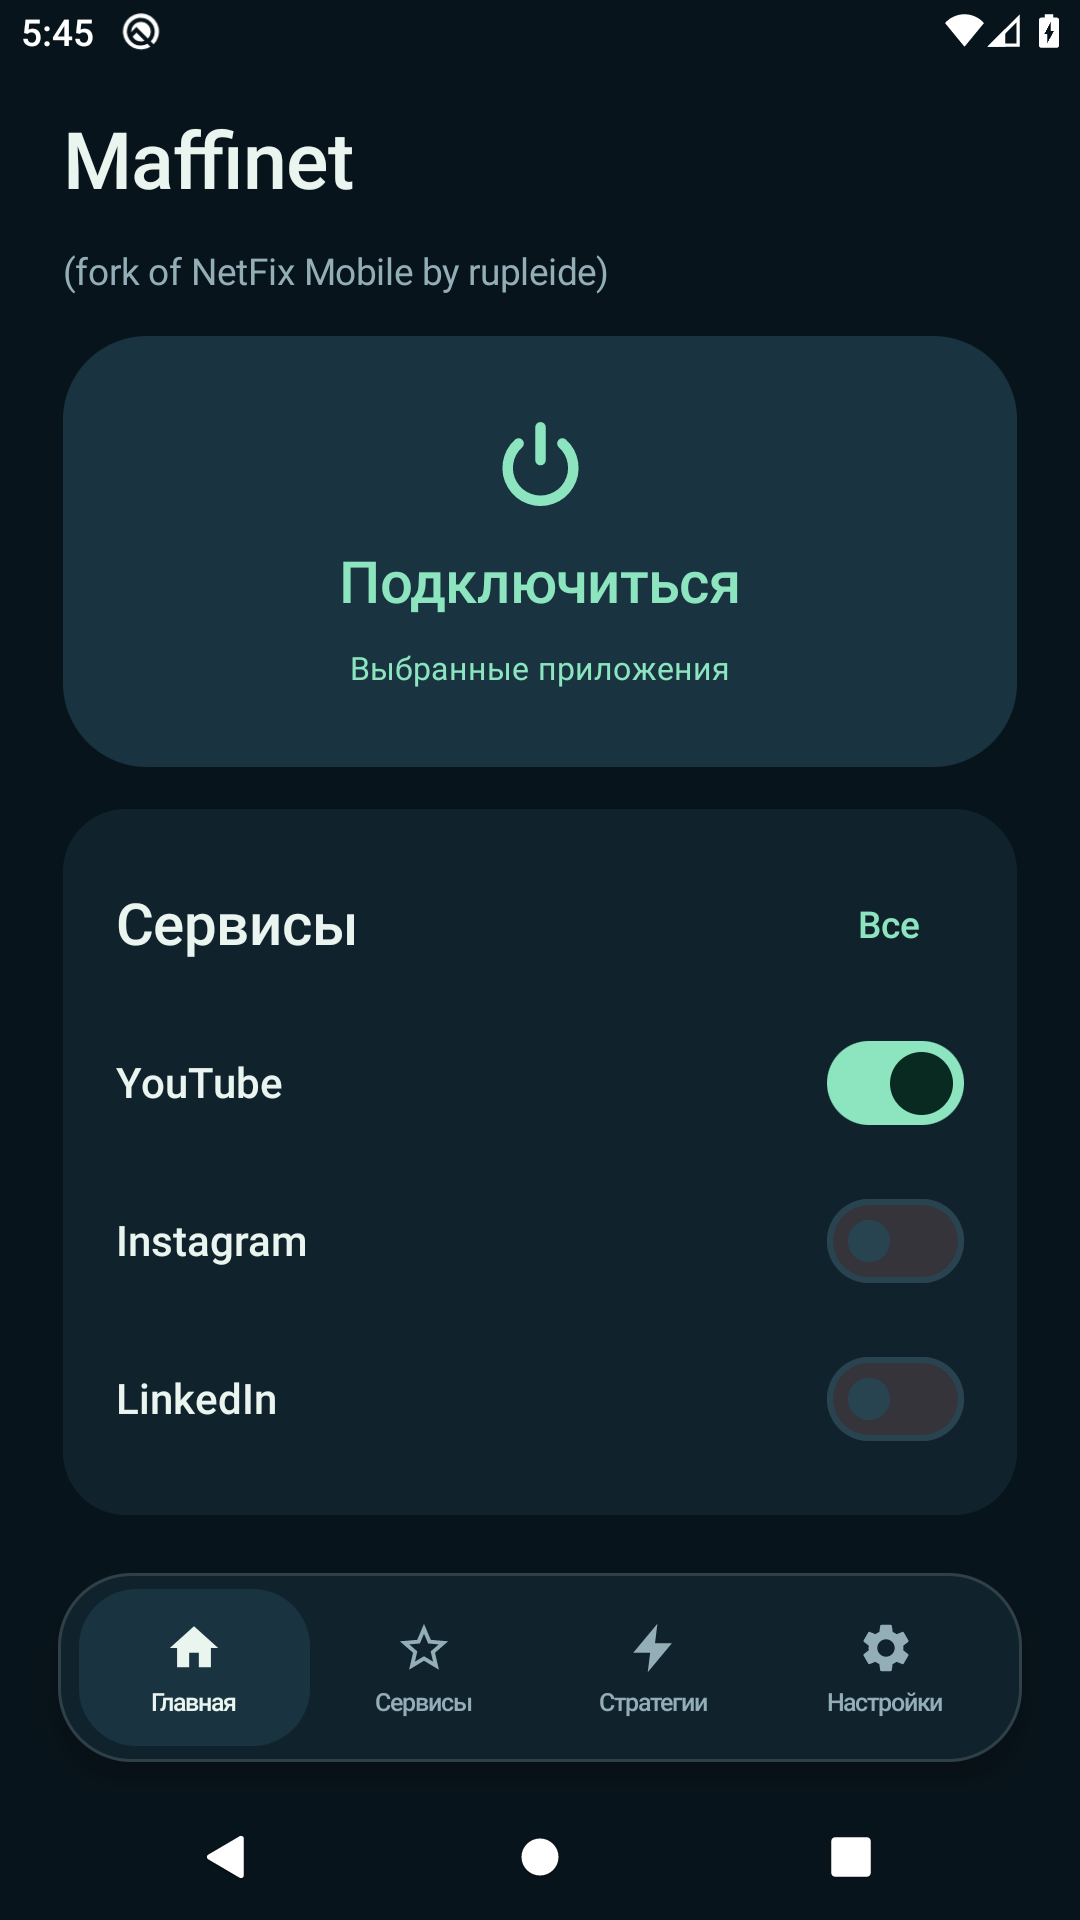
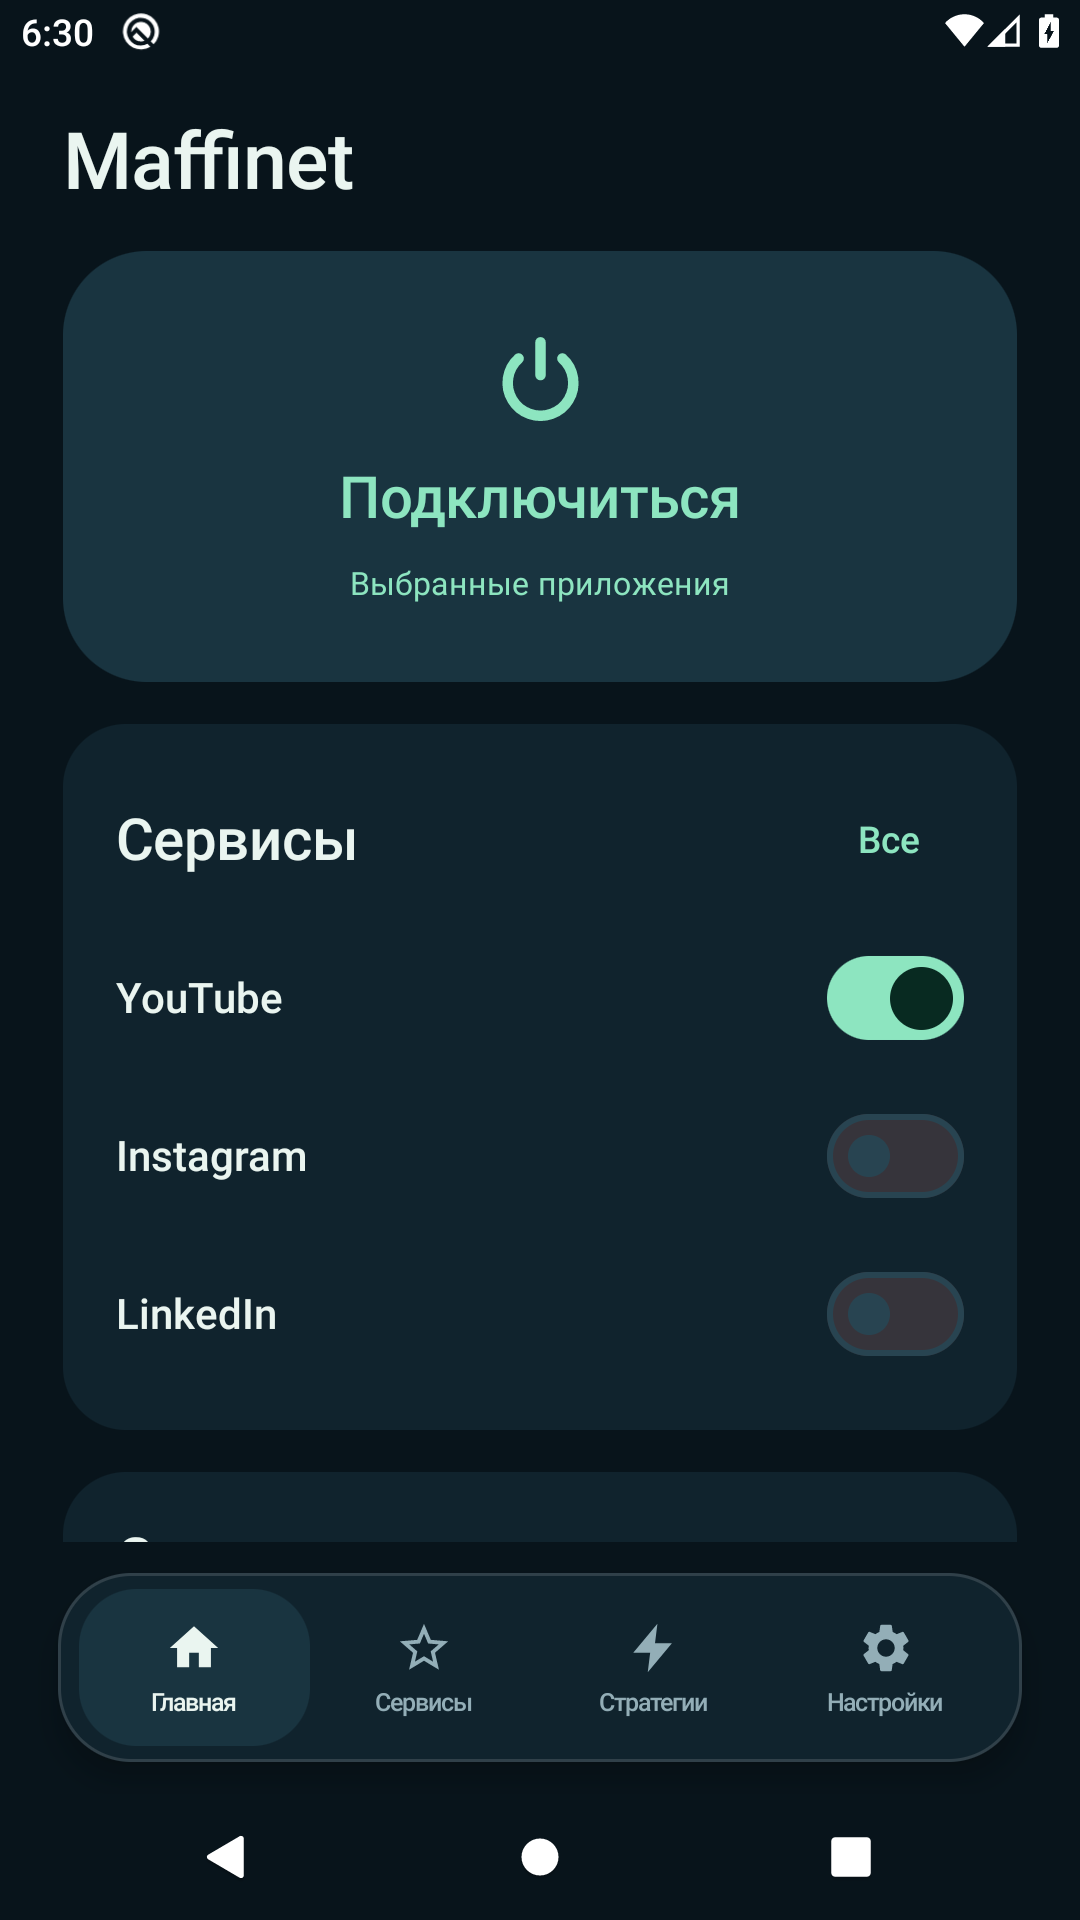
docs: record Maffinet JNI and clean development UI validation [skip ci]

diff --git a/PLAN.md b/PLAN.md
@@ -79,14 +79,14 @@ At each phase run `:app:assembleDebug :app:testDebugUnitTest`; record environmen
 - Phase 3: complete. Centralized YouTube/Instagram/LinkedIn profiles, generic domain selection, enabled-profile plus manual application routing, own-package exclusion and empty-installed-allowlist rejection implemented. Six focused catalog/routing tests pass (26 production-source JVM tests total). The integrated Android build passed in CI; physical-device connectivity remains pending.
 - Phase 4: complete in source. Four primary destinations, clean Home, generic service controls/details, validated local domain editor with SAF import/export, Advanced controls and retained legacy Telegram/TV/strategy management routes. Android compilation and AOSP API 29 portrait UI checks passed in CI. Real screenshots cover onboarding, the four destinations, About, persisted service choices and domain validation. The scroll viewport and dark system navigation keep product controls clear of the bottom bar. Physical phone/TV visual acceptance remains pending. Matrix presentation is completed alongside Phase 5.
 - Phase 5: complete in source. HTTP/TLS probes cover every selected profile target through each production-filtered ByeDPI candidate, with a fixed per-run snapshot, persistent per-service matrix and deterministic coverage/latency/preset-order scoring. Five focused scorer tests pass. Best command is saved before VPN restoration; user STOP/PAUSE, cancellation, deferred starts and stuck native workers are coordinated explicitly. VPN JNI is hosted on a tracked thread with listener readiness and bounded cleanup; transport/native engines are preserved. Full integrated Android compilation passed in CI.
-- Phase 6: code stabilization and runtime smoke checks implemented; physical device acceptance remains open. Startup waits for the SOCKS listener; failures/destruction close TUN/config/native resources; DNS presets reach the VPN builder; physical-network recovery retains lost-network state; scan/reconnect/start/stop operations share gates and generation tokens. Watchdog permissions/component and VPN-specific state are fixed without replacing transport engines. [CI run 37141382387](https://github.com/DrDeiss/Maffinet/actions/runs/37141382387) passed for source `256dfaee5559eaf827e3228805d57653257bc56e`: 32 standalone JVM tests, 31 Android JVM tests, nine Android instrumentation tests, debug APK assembly and Lint with zero errors. Every suite completed without failures or skips. Real phone/TV acceptance checks remain pending in docs/DEVICE_VALIDATION.md.
+- Phase 6: code stabilization and runtime smoke checks implemented; physical device acceptance remains open. Startup waits for the SOCKS listener; failures/destruction close TUN/config/native resources; DNS presets reach the VPN builder; physical-network recovery retains lost-network state; scan/reconnect/start/stop operations share gates and generation tokens. Watchdog permissions/component and VPN-specific state are fixed without replacing transport engines. [CI run 37144128664](https://github.com/DrDeiss/Maffinet/actions/runs/37144128664) passed for source `30ee86a15a6ed889f719a24b10a2577bcb5d6e6b`: 32 standalone JVM tests, 31 Android JVM tests, nine Android instrumentation tests, debug/unsigned release APK assembly and Lint with zero errors. Every suite completed without failures or skips. Real phone/TV acceptance checks remain pending in docs/DEVICE_VALIDATION.md.
 
 ### Verification scope
 
-- Continued Phase 6: AOSP API 29 instrumentation passed for the four UI destinations, required attribution, persisted service/domain edits, real JNI SOCKS/TUN start/stop/retry, startup cancellation and universal-test VPN restoration. Nine tests ran with zero failures/errors/skips, including eight custom smoke checks and the inherited application-ID check. Android Lint is an error gate. Six executed production-native fixture tests cover filtering and parse all 73 unchanged inherited presets after the actual selective argument compiler. All 12 collected UI PNGs were inspected, including the final About viewport and truthful unchecked-update status. Selected original captures are retained in docs/screenshots; complete reports/logs/PNG evidence are in the CI artifact.
+- Continued Phase 6: AOSP API 29 debug instrumentation passed for the four UI destinations, deferred upstream reminders, persisted service/domain edits, real Maffinet JNI SOCKS/TUN start/stop/retry, startup cancellation and universal-test VPN restoration. Nine tests ran with zero failures/errors/skips, including eight custom smoke checks and the inherited application-ID check. Android Lint is an error gate. Six executed production-native fixture tests cover filtering and parse all 73 unchanged inherited presets after the actual selective argument compiler. All 12 collected UI PNGs were inspected, including the clean development About viewport and truthful unchecked-update status. Selected original captures are retained in docs/screenshots; complete reports/logs/PNG evidence are in the CI artifact. Release attribution was compiled, not runtime-tested in this run.
 
 - Local Windows: 26 JVM model tests passed; six Linux native fixture tests explicitly skipped. Syntax inspection passed for 82 Kotlin application/unit/instrumentation files. Android SDK agreement acceptance remains pending locally; no agreement was accepted by project automation.
-- GitHub CI: stable NDK r29 compiler override; all four native ABIs packaged in the debug build. Production native HTTP/TLS host selection, retry groups, TCP/IPv4 constraints and unchanged UDP forwarding were exercised successfully. Eight inherited binary hashes and four HEV JNI contracts remain verified. Lint reports zero errors, 157 warnings and nine hints; inherited target SDK and JNA page alignment remain documented limitations. Test reports/logs/PNG evidence are uploaded, with no public APK release.
+- GitHub CI: stable NDK r29 compiler override; all four native ABIs packaged in debug and unsigned release builds. Production native HTTP/TLS host selection, retry groups, TCP/IPv4 constraints and unchanged UDP forwarding were exercised successfully. Eight shipped binary hashes, four Maffinet HEV JNI contracts and inverse original hashes are verified. Lint reports zero errors, 157 warnings and nine hints; inherited target SDK and JNA page alignment remain documented limitations. Test reports/logs/PNG evidence are uploaded, with no public APK release.
 - Final localized fixes: the update-install receiver is private; About uses the same reserved scroll viewport as product screens. Update checks distinguish available/up-to-date/no-release/no-APK/failure states, respect disabled automatic checks, close HTTP resources and propagate cancellation. Four new Android JVM tests covering alpha/stable, numeric ordering and malformed tags passed in the final CI. The Activity smoke test confirms disabled automatic checks leave About explicitly unchecked.
 - Release limitations: physical-device VPN/bypass/media/background/TV behavior and traffic generated by a separately routed helper app remain unverified. Exact customized HEV source was not found in checked public provenance; retained binaries and JNI compatibility are documented. Source/provenance and physical-device gates prevent claiming a verified alpha release.
 
@@ -94,4 +94,5 @@ At each phase run `:app:assembleDebug :app:testDebugUnitTest`; record environmen
 
 - Removed the last original Kotlin namespace: HEV now registers `io.maffinet.android.core.dpibypass.TProxyService` on all four ABIs. A deterministic 48-byte class-literal adaptation preserves every other native byte, proven by inverse original hashes; original/target records are in docs/native-jni-rebind.json. The bridge, NDK package macro and keep rule use Maffinet. Exact customized sources remain a separate release gate.
 - Per the user's instruction, debug UI defers upstream reminders with `SHOW_UPSTREAM_ATTRIBUTION=false`. Release sets the flag true, preserving first-launch notice, Home/About marking and author cards for the final UI. LICENSE/NOTICE/provenance remain intact.
-- CI now assembles debug and unsigned release variants. Updated UI smoke assertions check clean development Home/About/onboarding and preserve release-branch checks. Native inverse/hash checks passed locally; new Android runtime validation is pending.
+- Renamed 13 inherited component/service Kotlin filenames to Maffinet, removing old generated file-facade names. The source tree has no original application package or original product filenames.
+- CI now assembles debug and unsigned release variants. Updated UI smoke assertions check clean development Home/About/onboarding and preserve release-branch checks. Run 37144128664 passed all 32/31/9 tests without skips, with no JNI linkage errors in logcat; the new class ran on x86_64. Twelve fresh captures document the development UI. The release gate was compiled but not runtime-tested; other ABI/device checks remain pending.

diff --git a/docs/DEVICE_VALIDATION.md b/docs/DEVICE_VALIDATION.md
@@ -2,8 +2,8 @@
 
 ## Completed emulator validation
 
-Source: `256dfaee5559eaf827e3228805d57653257bc56e`.
-[CI run 37141382387](https://github.com/DrDeiss/Maffinet/actions/runs/37141382387),
+Source: `30ee86a15a6ed889f719a24b10a2577bcb5d6e6b`.
+[CI run 37144128664](https://github.com/DrDeiss/Maffinet/actions/runs/37144128664),
 2026-10-03, GitHub Linux runner, stable NDK r29, AOSP API 29 `default;x86_64`
 Pixel emulator, portrait 1080×1920, Android three-button navigation.
 The test's simulated VPN consent is explicitly restricted to qemu; no physical
@@ -11,17 +11,18 @@ device permission flow is inferred from it.
 
 | Check | Recorded result |
 | --- | --- |
-| Debug APK and test APK | Both assembled; four native ABIs packaged |
+| Debug, unsigned release and test APKs | All assembled; four native ABIs packaged |
 | Standalone JVM/native contracts | 32 passed, zero failures/skips; six actual pinned-C tests, including all 73 preset arguments |
 | Android JVM tests | 31 passed, zero failures/skips; includes four alpha/stable/version-tag cases |
 | Android instrumentation | Nine passed, zero failures/errors/skips; eight custom checks plus inherited application-ID check |
 | Android Lint | Zero errors, 157 warnings, nine hints |
-| First launch | Required author notice appears; acknowledgement survives Activity relaunch |
-| Product navigation/attribution | Four destinations open; Home and About contain the required fork marking |
+| First launch | Development build opens Maffinet welcome without an upstream notice; welcome survives Activity relaunch and the deferred notice is not marked seen |
+| Product navigation/attribution | Four destinations open; debug Home/About/onboarding contain no NetFix/rupleide reminders; release attribution gate compiles enabled |
 | Update state | Disabled automatic checks leave About explicitly unchecked; network/no-release/no-APK outcomes remain distinct in source |
 | Saved services | YouTube/Instagram choices survive closing and opening a new Activity |
 | Saved User domains | Normalization/save/disable survive relaunch; an invalid URL cannot overwrite the saved list |
-| Native start/stop/retry | Actual JNI SOCKS negotiation and Android TUN establish twice; temporary config, socket and TUN descriptors clean up |
+| Native namespace | Eight shipped binary hashes and four inverse HEV provenance checks pass; x86_64 runtime resolves the new Maffinet JNI class without link/registration errors |
+| Native start/stop/retry | Actual Maffinet JNI SOCKS negotiation and Android TUN establish twice; temporary config, socket and TUN descriptors clean up |
 | Failed routing/start cancellation | Empty installed routing cleans up native resources and permits retry; immediate STOP invalidates queued startup |
 | Universal candidate/restoration | One real native candidate probes every selected profile; candidate resources stop before original VPN restoration |
 | Visual evidence | 12 UI PNGs collected and inspected; product and About scroll content stay clear of floating/system navigation |
@@ -29,10 +30,16 @@ device permission flow is inferred from it.
 Original captures of Home, Services, Strategies, About and the domain validation
 error are retained in [screenshots](screenshots/README.md). The full 12-image set,
 JUnit/Lint reports and emulator/logcat output are in CI artifact
-`android-validation` (ID `11280812005`, SHA-256
[1 lines of base64/hex data omitted]
-The standalone suite report is artifact `jvm-validation` (ID `11280716703`).
+`android-validation` (ID `11280884164`, SHA-256
[1 lines of base64/hex data omitted]
+The standalone suite report is artifact `jvm-validation` (ID `11281368133`).
 Documentation-only commits after the tested source do not change application code.
+Instrumentation ran against debug; release was assembled but its attribution UI
+was not executed on the emulator. ARM and x86 binaries pass structural/hash
+checks; their device runtime remains unverified.
+Visual QA also retains one earlier layout issue: with the keyboard open in the
+restored domain editor, its header can scroll under the status bar; the editable
+domain field stays readable. This is separate from the attribution change.
 
 Instrumented probes run from the application's excluded UID. The TUN is configured
 with a distinct installed test APK UID, but these tests do not generate traffic
@@ -48,7 +55,7 @@ Phone and Android TV checks are distinct. All physical-device rows remain unveri
 | Check | Expected result | Result |
 | --- | --- | --- |
 | Installation | Maffinet and NetFix packages/data remain separate | Pending |
-| First launch | Maffinet branding and fork notice appear | Pending |
+| First launch | Maffinet branding; notice deferred in debug and shown in release | Pending |
 | VPN permission/start/stop | Consent, foreground notice, complete cleanup | Pending |
 | YouTube regression | Known working strategy reaches web/media | Pending |
 | Service routing | Installed enabled packages enter allowed routing | Pending |

diff --git a/README.md b/README.md
@@ -1,11 +1,7 @@
 # Maffinet
 
-Maffinet is an independent project inspired by NetFix Mobile and uses parts of
-its open-source codebase. Upstream: [rupleide/NetFixMobile](https://github.com/rupleide/NetFixMobile).
-Maffinet is an independent development with its own identity, interface and
-selective DPI bypass architecture. It is not an official NetFix product.
-
-Attribution: **(fork of NetFix Mobile by rupleide)**.
+Maffinet is an Android application for local, selective DPI bypass with service
+profiles, editable domain lists and automatic strategy testing.
 
 During UI development, debug builds defer the upstream notice and attribution
 using `BuildConfig.SHOW_UPSTREAM_ATTRIBUTION=false`. Release builds set it to
@@ -23,7 +19,8 @@ installation alongside NetFix Mobile.
 ## Interface
 
 Original captures from the passing AOSP API29 emulator run, source
-`256dfaee5559eaf827e3228805d57653257bc56e`:
+`30ee86a15a6ed889f719a24b10a2577bcb5d6e6b`. Development UI defers upstream
+reminders:
 
 <img src="docs/screenshots/home-api29.png" width="270" alt="Maffinet Home with connection and service controls"> <img src="docs/screenshots/services-api29.png" width="270" alt="Maffinet service profiles">
 
@@ -114,8 +111,9 @@ control. Unit tests cover parsing/merging, profiles, arguments, scoring and
 persistence. `./gradlew -p verification test` runs pure production-source JVM tests
 without Android SDK. Linux CI also compiles unchanged pinned ByeDPI for actual
 host/protocol/retry/UDP contract checks; see [verification](verification/README.md).
-CI also assembles instrumentation tests, runs Android Lint with errors fatal and
-executes UI/native VPN smoke tests on an AOSP API29 x86_64 emulator. It collects
+CI assembles debug, unsigned release and instrumentation APKs, runs Android Lint
+with errors fatal and executes UI/native VPN smoke tests on an AOSP API29 x86_64
+emulator. It collects
 reports and screen captures. A licensed Linux SDK host can run the same checks
 with `bash tools/run-emulator-smoke.sh`; the script requires a provisioned AOSP
 API29 image, emulator, platform tools and KVM. Its simulated VPN consent is
@@ -126,6 +124,11 @@ Use [device validation](docs/DEVICE_VALIDATION.md)
 for VPN lifecycle, background, network switching and Android TV checks.
 
 ## License and attribution
+
+Maffinet uses parts of [rupleide/NetFixMobile](https://github.com/rupleide/NetFixMobile)
+and is an independent development with its own identity, interface and selective
+DPI bypass architecture. It is not an official NetFix product. Required release
+attribution: **(fork of NetFix Mobile by rupleide)**.
 
 Upstream README declares GPL-3.0 with additional terms; its imported checkout has
 no standalone LICENSE. [LICENSE](LICENSE) supplies standard GPLv3 text, while

diff --git a/docs/screenshots/README.md b/docs/screenshots/README.md
@@ -2,17 +2,19 @@
 
 These are original, unedited UIAutomation captures from the real Activity on an
 AOSP API29 x86_64 Pixel emulator, portrait 1080×1920 with three-button navigation.
-Source: `256dfaee5559eaf827e3228805d57653257bc56e`.
-[Passing CI run](https://github.com/DrDeiss/Maffinet/actions/runs/37141382387),
+Source: `30ee86a15a6ed889f719a24b10a2577bcb5d6e6b`.
+[Passing CI run](https://github.com/DrDeiss/Maffinet/actions/runs/37144128664),
 2026-10-03. These images document that emulator configuration; physical phone/TV,
 landscape, large fonts and other Android versions require separate acceptance.
+These development captures use `SHOW_UPSTREAM_ATTRIBUTION=false`; release builds
+retain the notice and attribution for the final UI.
 
 | Screen | Capture |
 | --- | --- |
-| Home and required fork marking | [Home](home-api29.png) |
+| Maffinet Home and connection/service controls | [Home](home-api29.png) |
 | Data-driven service profiles | [Services](services-api29.png) |
 | Auto strategy and HTTP/TLS check controls | [Strategies](strategies-api29.png) |
-| Attribution and unchecked update status | [About](about-api29.png) |
+| Maffinet description and unchecked update status | [About](about-api29.png) |
 | Invalid URL rejected without replacing saved domains | [Domain validation](domain-validation-api29.png) |
 
 The CI `android-validation` artifact contains all 12 captures, including first

diff --git a/docs/NATIVE_PROVENANCE.md b/docs/NATIVE_PROVENANCE.md
@@ -38,6 +38,8 @@ every other byte remains unchanged. The manifest records both original and
 shipped hashes, rather than presenting modified HEV files as unchanged.
 The original bytes remain recoverable in the imported Git history. Rust hashes
 are unaffected. The JNI make configuration and ProGuard keep rule use Maffinet.
+Inherited diagnostic source-file paths remain embedded in the ELF files; those
+paths are build metadata, not Java class lookups or application dependencies.
 
 This is an audited binary namespace adaptation, not a HEV source rebuild or a
 claim of complete native reproducibility. It removes the original application's
